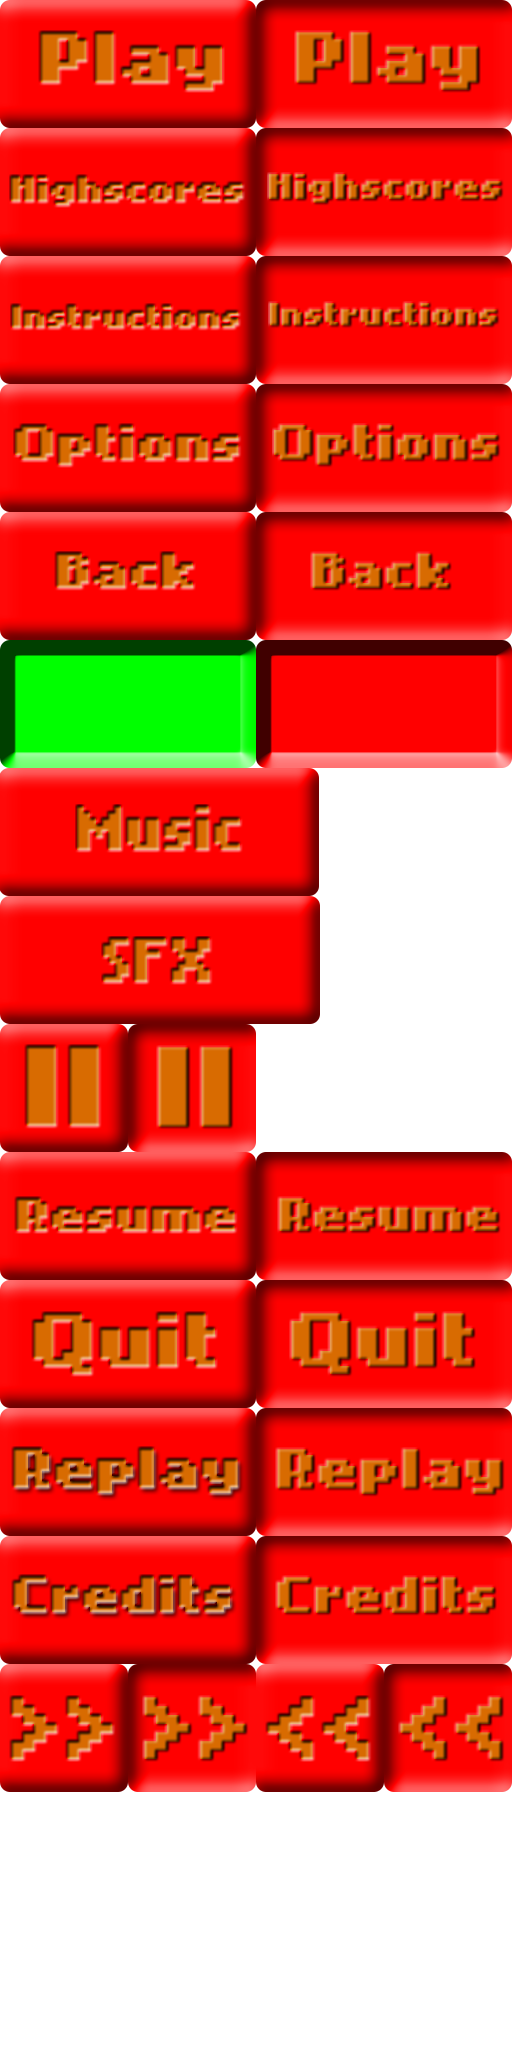
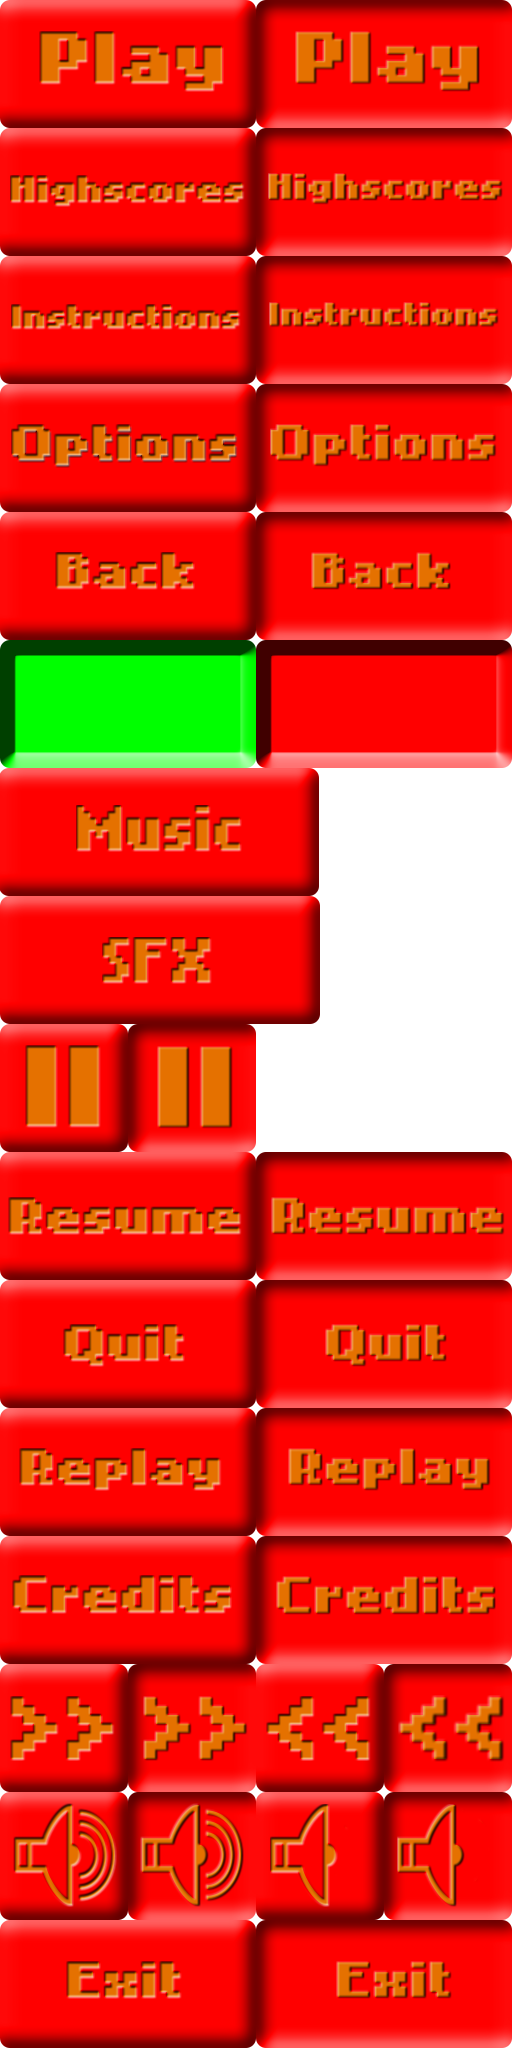
Bug Fixes and customer requests
- Population display no longer counts animals in water - Me
- Fixed Highscore not saving - Brandon
- Ingame mute button added - Evan
- Exit button in options added - Shadrach
- Button graphics polished - Me
- Sound turns off when screen is off now - Steve

diff --git a/Tiltiland/src/scom/game/tiltiland/GamePlayScreen.java b/Tiltiland/src/scom/game/tiltiland/GamePlayScreen.java
@@ -14,6 +14,7 @@ import android.graphics.Rect;
 import android.os.Handler;
 import android.os.HandlerThread;
 import android.os.Looper;
+import android.os.PowerManager.WakeLock;
 
 public class GamePlayScreen extends Screen
 {
@@ -34,7 +35,14 @@ public class GamePlayScreen extends Screen
 		zoo.Score = 0;
 		midPoint =  384;
 		state = GameState.Ready;
-		
+		if(Settings.MusicEnabled || Settings.SFXEnabled)
+		{
+			mute = false;
+		}
+		else
+		{
+			mute = true;
+		}
 	}
 	
 	Ad ad; // Ad instance
@@ -44,6 +52,8 @@ public class GamePlayScreen extends Screen
 	boolean resumePush = false;
 	boolean quitPush = false;
 	boolean replayPush = false;
+	boolean mutePush = false;
+	boolean mute;
 	
 	// Objects game has
 	Island island; 
@@ -75,6 +85,16 @@ public class GamePlayScreen extends Screen
     
 	public void update(float deltaTime)
 	{
+		Assets.playMusic(); // play music if its not playing 
+		if(Assets.isOn())
+		{
+			Settings.MusicEnabled = true;
+		}
+		else
+		{
+			Settings.MusicEnabled = false;
+		}
+		
 		List < TouchEvent > touchEvents = game.getInput().getTouchEvents();
 		game.getInput().getKeyEvents();
 		
@@ -179,11 +199,12 @@ public class GamePlayScreen extends Screen
 		rotationAmount += getWeightDistrubution();
 		
 		island.rotation += rotationAmount;
+		/*
 		if( island.rotation > 50 || island.rotation < -50 )
 		{
 			island.rotation = 50;
 		}
-		
+		*/
 		canvas.rotate(rotationAmount, canvas.getWidth()*0.5f, canvas.getHeight()*0.5f);
 		
 		CheckDrown();
@@ -202,6 +223,12 @@ public class GamePlayScreen extends Screen
 					pausePush = true; // is button being pushed
 					Assets.playSound(Assets.click);
 				}
+				
+				if(inBounds(event, 608, 864, 128, 128)) // Mute
+				{
+					mutePush = !mutePush;
+					Assets.playSound(Assets.click);
+				}
 			}
 		}
 		
@@ -215,6 +242,15 @@ public class GamePlayScreen extends Screen
 				{
 					state = GameState.Paused;
 					pausePush = false;
+				}
+				
+				if(inBounds(event, 608, 864, 128, 128)) /// Mute D
+				{
+					mutePush = !mutePush;
+					Settings.MusicEnabled = !Settings.MusicEnabled;
+					Assets.playMusic();
+					Settings.SFXEnabled = !Settings.SFXEnabled;
+					mute = !mute;
 				}
 			}
 		}
@@ -300,7 +336,6 @@ public class GamePlayScreen extends Screen
 			}
 		}
 	}
-	
     public void present(float deltaTime)
     {
     	DrawWorld(); // draws background and world
@@ -364,11 +399,34 @@ public class GamePlayScreen extends Screen
     	// Buttons
     	if(pausePush == false)
     	{
-    		g.drawPixmap(Assets.buttons, 32, 864, 0, 1024, 128, 128); // pauseB
+    		g.drawPixmap(Assets.buttons, 32, 864, 0, 1024, 128, 128); // PauseB
     	}
     	else
     	{
     		g.drawPixmap(Assets.buttons, 32, 864, 128, 1024, 128, 128); // PauseBD
+    	}
+    	
+    	if(!mute)
+    	{
+	    	if(!mutePush)
+	    	{
+	    		g.drawPixmap(Assets.buttons, 608, 864, 0, 1792, 128, 128); // MuteB
+	    	}
+	    	else
+	    	{
+	    		g.drawPixmap(Assets.buttons, 608, 864, 128, 1792, 128, 128); // MuteBD
+	    	}
+    	}
+    	else
+    	{
+    		if(!mutePush)
+	    	{
+	    		g.drawPixmap(Assets.buttons, 608, 864, 256, 1792, 128, 128); // MuteB
+	    	}
+	    	else
+	    	{
+	    		g.drawPixmap(Assets.buttons, 608, 864, 384, 1792, 128, 128); // MuteBD
+	    	}
     	}
     }
     
@@ -457,17 +515,17 @@ public class GamePlayScreen extends Screen
 
     private void DrawStats()
     {
-    	g.drawPixmap(Assets.stats, 192, 704, 0, 0, 478, 163);
-    	Elephants = new Font(game, zoo.Census[0][0] + " : " + zoo.Census[0][1], 354, 732, 0.31f);
-    	Giraffe = new Font(game, zoo.Census[1][0] + " : " + zoo.Census[1][1], 354, 760, 0.31f);
-    	Tiger = new Font(game, zoo.Census[2][0] + " : " + zoo.Census[2][1], 354, 788, 0.31f);
-    	Zebra = new Font(game, zoo.Census[3][0] + " : " + zoo.Census[3][1], 354, 816, 0.31f);
-    	Snake = new Font(game, zoo.Census[4][0] + " : " + zoo.Census[4][1], 354, 845, 0.31f);
-    	Gorilla = new Font(game, zoo.Census[5][0] + " : " + zoo.Census[5][1], 637, 732, 0.31f);
-    	Penguin = new Font(game, zoo.Census[6][0] + " : " + zoo.Census[6][1], 637, 760, 0.31f);
-    	Bear = new Font(game, zoo.Census[7][0] + " : " + zoo.Census[7][1], 637, 788, 0.31f);
-    	Sheep = new Font(game, zoo.Census[8][0] + " : " + zoo.Census[8][1], 637, 816, 0.31f);
-    	Kangaroo = new Font(game, zoo.Census[9][0] + " : " + zoo.Census[9][1], 637, 845, 0.31f);
+    	g.drawPixmap(Assets.stats, 128, 640, 0, 0, 478, 163);
+    	Elephants = new Font(game, zoo.Census[0][0] + " : " + zoo.Census[0][1], 290, 668, 0.31f);
+    	Giraffe = new Font(game, zoo.Census[1][0] + " : " + zoo.Census[1][1], 290, 696, 0.31f);
+    	Tiger = new Font(game, zoo.Census[2][0] + " : " + zoo.Census[2][1], 290, 724, 0.31f);
+    	Zebra = new Font(game, zoo.Census[3][0] + " : " + zoo.Census[3][1], 290, 752, 0.31f);
+    	Snake = new Font(game, zoo.Census[4][0] + " : " + zoo.Census[4][1], 290, 781, 0.31f);
+    	Gorilla = new Font(game, zoo.Census[5][0] + " : " + zoo.Census[5][1], 573, 668, 0.31f);
+    	Penguin = new Font(game, zoo.Census[6][0] + " : " + zoo.Census[6][1], 573, 696, 0.31f);
+    	Bear = new Font(game, zoo.Census[7][0] + " : " + zoo.Census[7][1], 573, 724, 0.31f);
+    	Sheep = new Font(game, zoo.Census[8][0] + " : " + zoo.Census[8][1], 573, 752, 0.31f);
+    	Kangaroo = new Font(game, zoo.Census[9][0] + " : " + zoo.Census[9][1], 573, 781, 0.31f);
     }
     
     private void MoveAnimals()

diff --git a/Tiltiland/src/scom/game/tiltiland/OptionsScreen.java b/Tiltiland/src/scom/game/tiltiland/OptionsScreen.java
@@ -18,9 +18,20 @@ public class OptionsScreen extends Screen
 		boolean backPush = false;
 		boolean creditsPush = false;
 		boolean creditsShow = false;
+		boolean exitPush = false;
 		
 		public void update(float deltaTime)
 		{
+			Assets.playMusic(); // play music if its not playing 
+			if(Assets.isOn())
+			{
+				Settings.MusicEnabled = true;
+			}
+			else
+			{
+				Settings.MusicEnabled = false;
+			}
+			
 			List < TouchEvent > touchEvents = game.getInput().getTouchEvents();
 			game.getInput().getKeyEvents();
 			
@@ -54,10 +65,15 @@ public class OptionsScreen extends Screen
 						}
 					}
 					
-					if(inBounds(event, 256, 832, 256, 128)) // Back
+					if(inBounds(event, 64, 832, 256, 128)) // Back
 					{
 						backPush = true;
 						Assets.playSound(Assets.click);
+					}
+					
+					if(inBounds(event, 448, 832, 256, 128)) // Exit
+					{
+						exitPush = true;
 					}
 				}
 			}
@@ -68,17 +84,27 @@ public class OptionsScreen extends Screen
 				if(event.type == TouchEvent.TOUCH_UP)
 				{
 					//all if's for buttons
-					if(inBounds(event, 256, 832, 256, 128)) // Back
+					if(!creditsShow)
+					{
+						if(inBounds(event, 256, 640, 256, 128)) // Credits button
+						{
+							creditsPush = false;
+							creditsShow = true;
+						}
+					}
+					
+					if(inBounds(event, 64, 832, 256, 128)) // Back
 					{
 						backPush = false;
 						Settings.save(game.getFileIO());
 						game.setScreen(new MainMenuScreen(game));
 					}
 					
-					if(inBounds(event, 256, 640, 256, 128)) // Credits button
+					if(inBounds(event, 448, 832, 256, 128)) // Exit
 					{
-						creditsPush = false;
-						creditsShow = true;
+						exitPush = false;
+						Settings.save(game.getFileIO());
+						System.exit(0);
 					}
 				}
 			}
@@ -134,11 +160,20 @@ public class OptionsScreen extends Screen
 	    	// Buttons
 	    	if(backPush == false)
 	    	{
-	    		g.drawPixmap(Assets.buttons, 256, 832, 0, 512, 256, 128); // BackB
+	    		g.drawPixmap(Assets.buttons, 64, 832, 0, 512, 256, 128); // BackB
 	    	}
 	    	else
 	    	{
-	    		g.drawPixmap(Assets.buttons, 256, 832, 256, 512, 256, 128); // BackBD
+	    		g.drawPixmap(Assets.buttons, 64, 832, 256, 512, 256, 128); // BackBD
+	    	}
+	    	
+	    	if(exitPush == false)
+	    	{
+	    		g.drawPixmap(Assets.buttons, 448, 832, 0, 1920, 256, 128); // ExitB
+	    	}
+	    	else
+	    	{
+	    		g.drawPixmap(Assets.buttons, 448, 832, 256, 1920, 256, 128); // ExitBD
 	    	}
 	    }
 

diff --git a/Tiltiland/src/scom/game/tiltiland/Assets.java b/Tiltiland/src/scom/game/tiltiland/Assets.java
@@ -1,6 +1,9 @@
 package scom.game.tiltiland;
 
+import android.content.Context;
 import android.graphics.Bitmap;
+import android.os.PowerManager;
+
 import com.badlogic.androidgames.framework.Pixmap;
 import com.badlogic.androidgames.framework.Sound;
 import com.badlogic.androidgames.framework.Music;
@@ -30,7 +33,8 @@ public class Assets
 	public static Pixmap font;
 	public static Bitmap fontBitmap;
 	
-	
+	public static PowerManager PowMan;
+
     public static void playMusic() 
     {
         if(Settings.MusicEnabled)
@@ -48,9 +52,14 @@ public class Assets
 
     public static void playSound(Sound sound) 
     {
-        if(Settings.SFXEnabled)
+        if(Settings.SFXEnabled && isOn())
         {
             sound.play(1);
         }
+    }
+    
+    public static boolean isOn()
+    {
+    	return Assets.PowMan.isScreenOn();
     }
 }

diff --git a/Tiltiland/src/scom/game/tiltiland/LoadingScreen.java b/Tiltiland/src/scom/game/tiltiland/LoadingScreen.java
@@ -4,13 +4,6 @@ import com.badlogic.androidgames.framework.Game;
 import com.badlogic.androidgames.framework.Screen;
 import com.badlogic.androidgames.framework.Graphics;
 import com.badlogic.androidgames.framework.Graphics.PixmapFormat;
-/*
-import com.game.tiltiland.R;
-import com.google.android.gms.ads.AdRequest;
-import com.google.android.gms.ads.AdSize;
-import com.google.android.gms.ads.AdView;
-*/
-
 import android.content.Context;
 
 public class LoadingScreen extends Screen 
@@ -18,10 +11,7 @@ public class LoadingScreen extends Screen
 	public LoadingScreen(Game game, Context ctx)
 	{
 		super(game);
-		context = ctx;
 	}
-	
-	Context context;
 	
 	public void update(float deltaTime)
 	{

diff --git a/Tiltiland/src/scom/game/tiltiland/Tiltiland.java b/Tiltiland/src/scom/game/tiltiland/Tiltiland.java
@@ -1,5 +1,8 @@
 package scom.game.tiltiland;
 
+import android.content.Context;
+import android.os.PowerManager;
+
 import com.badlogic.androidgames.framework.impl.AndroidGame;
 import com.badlogic.androidgames.framework.Screen;
 
@@ -7,7 +10,13 @@ public class Tiltiland extends AndroidGame
 {
 	public Screen getStartScreen()
 	{
+		MakePowMan();
 		return new LoadingScreen(this, this);
+	}
+	
+	public void MakePowMan() 
+	{
+		  Assets.PowMan = (PowerManager) getSystemService(Context.POWER_SERVICE);
 	}
 	
 	/*

diff --git a/Tiltiland/src/scom/game/tiltiland/InstructionsScreen.java b/Tiltiland/src/scom/game/tiltiland/InstructionsScreen.java
@@ -24,6 +24,16 @@ public class InstructionsScreen extends Screen {
 		
 		public void update(float deltaTime)
 		{
+			Assets.playMusic(); // play music if its not playing 
+			if(Assets.isOn())
+			{
+				Settings.MusicEnabled = true;
+			}
+			else
+			{
+				Settings.MusicEnabled = false;
+			}
+			
 			List < TouchEvent > touchEvents = game.getInput().getTouchEvents();
 			game.getInput().getKeyEvents();
 			

diff --git a/Tiltiland/src/scom/game/tiltiland/HighscoreScreen.java b/Tiltiland/src/scom/game/tiltiland/HighscoreScreen.java
@@ -30,6 +30,16 @@ public class HighscoreScreen extends Screen {
 	
 	public void update(float deltaTime)
 	{
+		Assets.playMusic(); // play music if its not playing 
+		if(Assets.isOn())
+		{
+			Settings.MusicEnabled = true;
+		}
+		else
+		{
+			Settings.MusicEnabled = false;
+		}
+		
 		List < TouchEvent > touchEvents = game.getInput().getTouchEvents();
 		game.getInput().getKeyEvents();
 		

diff --git a/Tiltiland/src/scom/game/tiltiland/MainMenuScreen.java b/Tiltiland/src/scom/game/tiltiland/MainMenuScreen.java
@@ -23,6 +23,14 @@ public class MainMenuScreen extends Screen
 	public void update(float deltaTime)
 	{
 		Assets.playMusic(); // play music if its not playing 
+		if(Assets.isOn())
+		{
+			Settings.MusicEnabled = true;
+		}
+		else
+		{
+			Settings.MusicEnabled = false;
+		}
 		
 		List < TouchEvent > touchEvents = game.getInput().getTouchEvents();
 		game.getInput().getKeyEvents();
